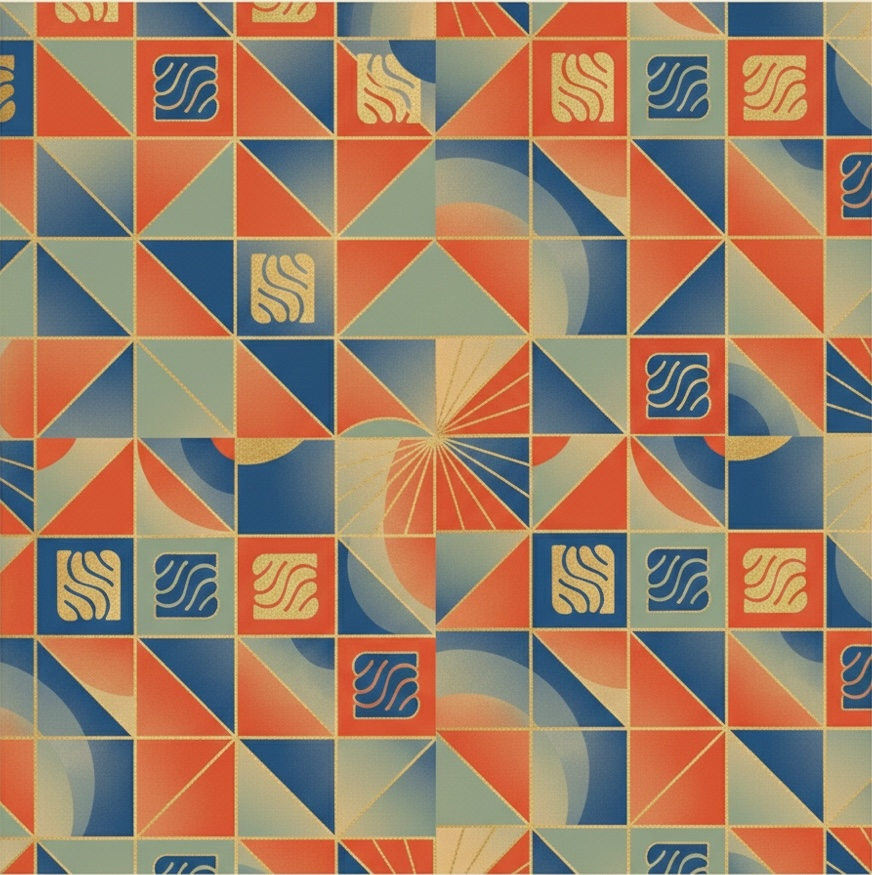
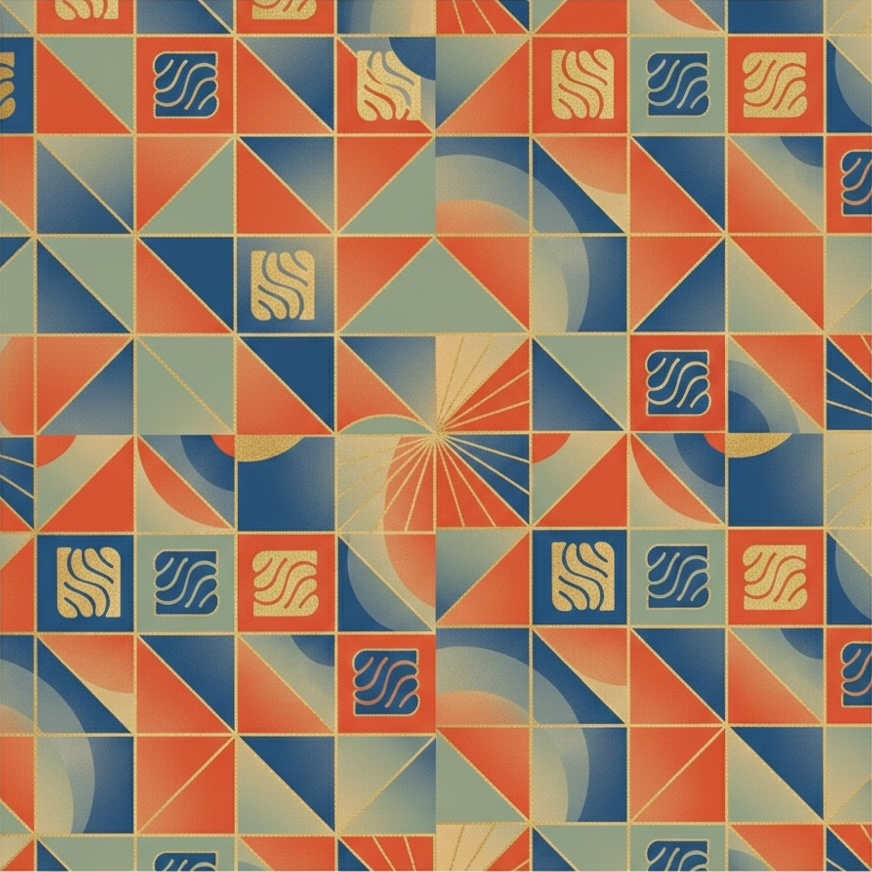
Update landing page styles and assets for improved mobile experience
- Replaced the tiled background image for enhanced visual appeal.
- Adjusted the Hero component layout to prevent white space during overscroll on mobile devices.
- Updated the index.astro file to include a black background for better user experience during scrolling.
- Modified global styles to ensure a consistent black background on mobile devices.

diff --git a/apps/landing-page/src/styles/global.css b/apps/landing-page/src/styles/global.css
@@ -242,6 +242,14 @@
     scroll-behavior: smooth;
   }
 
+  /* Mobile: Black background for overscroll bounce effect */
+  @media (max-width: 1023px) {
+    html,
+    body {
+      background-color: var(--pyre-black);
+    }
+  }
+
   /* Remove custom animation in favor of Tailwind or plugin-provided animations */
 
   /* Removed custom container. Use Tailwind's container or utility composition */
